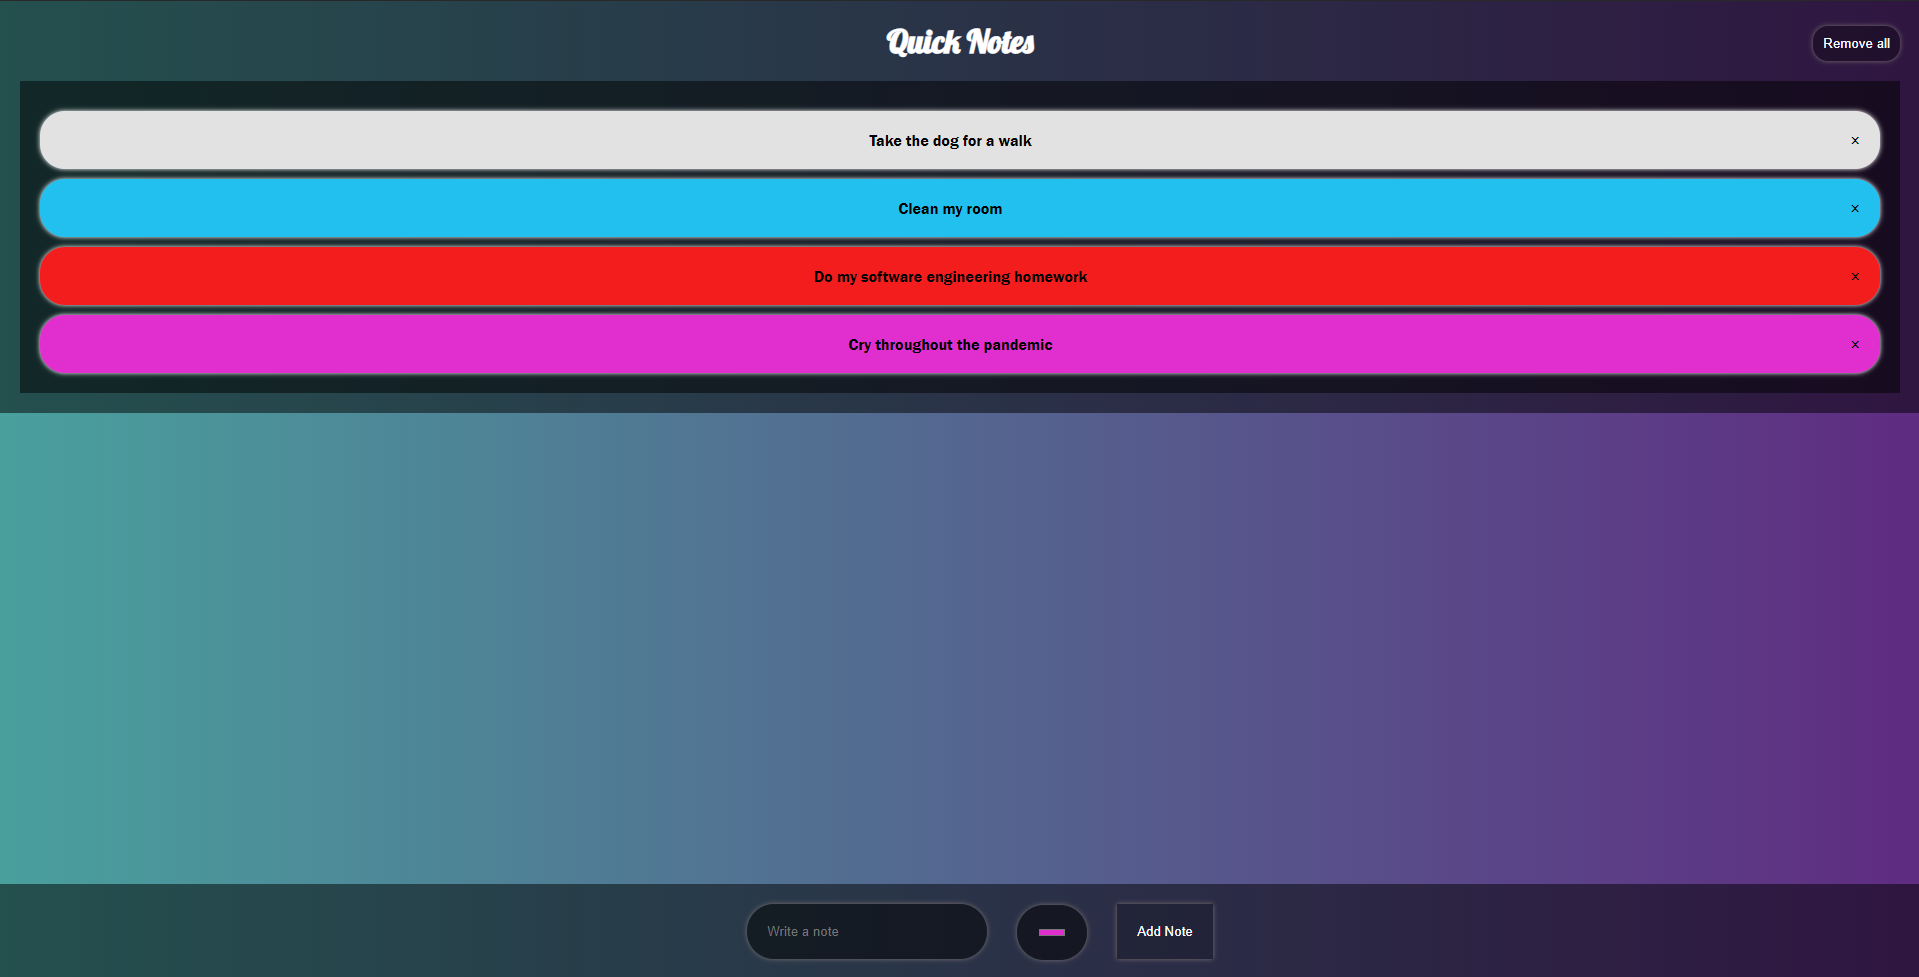
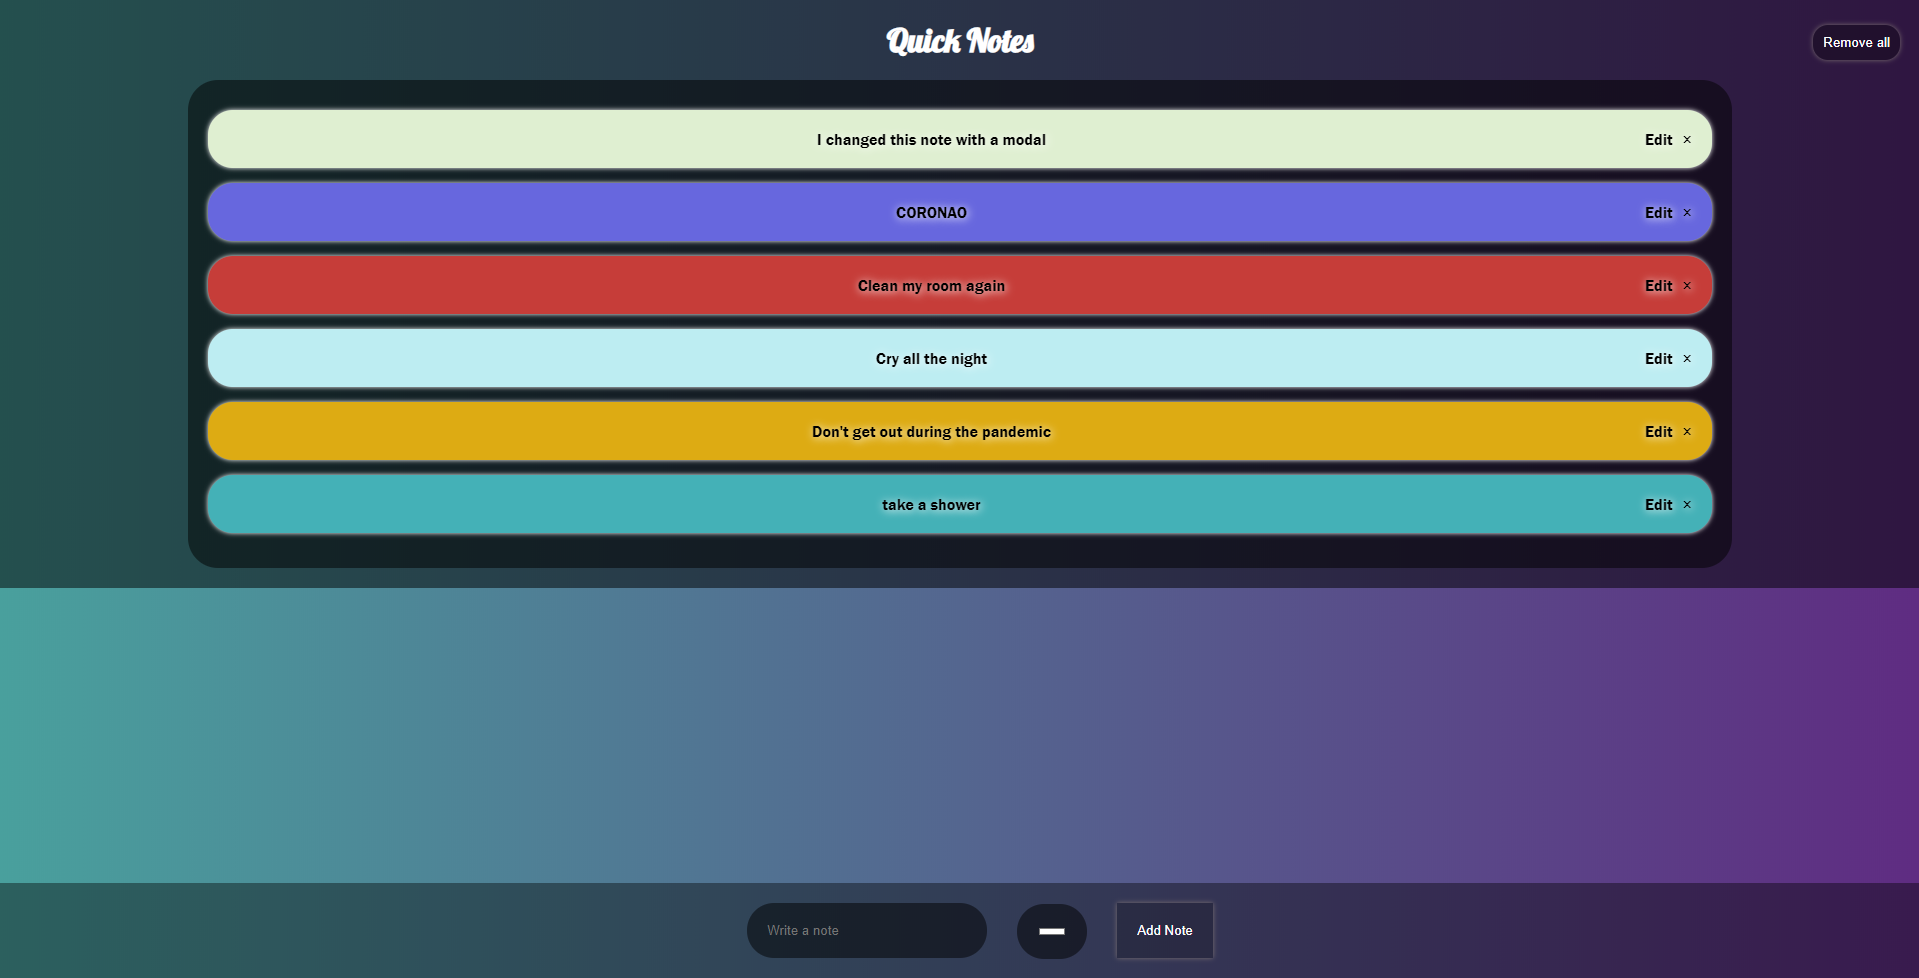
Edit the background color of your notes

diff --git a/src/Note/Note.jsx b/src/Note/Note.jsx
@@ -31,12 +31,14 @@ class Note extends Component {
         });
     }
 
-    updateNoteContent(noteId, newContent) {
+    updateNoteContent(noteId, newContent, color) {
         this.db.on('child_changed', snap => {
             this.noteContent = snap.val().noteContent;
+            this.noteColor = snap.val().noteColor;
         });
         this.db.child(noteId).update({
-            noteContent: newContent
+            noteContent: newContent,
+            noteColor: color
         });
         this.setModalState(false);
     }
@@ -55,24 +57,32 @@ class Note extends Component {
                     className="Modal"
                     isOpen={this.state.modalIsOpen}
                     onRequestClose={() => this.setModalState(false)}
-                    >
-                    <h2>Edit note</h2>
-                    <textarea
-                        id="txtEditInput"
-                        ref={input => { this.textInput = input; }}
-                        type="text">
-                        {this.noteContent}
-                    </textarea>
+                >
+                    <h1>Edit note</h1>
+                    <div>
+                        <textarea
+                            id="txtEditInput"
+                            ref={input => { this.textInput = input; }}
+                            type="text">
+                            {this.noteContent}
+                        </textarea>
+                        <input
+                            defaultValue={this.noteColor}
+                            id="modalcolor"
+                            ref={colorInput => { this.colorInput = colorInput; }}
+                            type="color"
+                        />
+                    </div>
 
-                    <button 
+                    <button
                         className="modalbtn save"
-                        onClick={() => this.updateNoteContent(this.noteId, this.textInput.value)}>
-                            Close and Save
+                        onClick={() => this.updateNoteContent(this.noteId, this.textInput.value, this.colorInput.value)}>
+                        Close and Save
                     </button>
-                    <button 
+                    <button
                         className="modalbtn close"
                         onClick={() => this.setModalState(false)}>
-                            Close
+                        Close
                     </button>
 
                 </Modal>

diff --git a/src/Note/Note.css b/src/Note/Note.css
@@ -31,26 +31,36 @@ p{
     background: #5f2c82;
     background: -webkit-linear-gradient(to right, #49a09d, #5f2c82);
     background: linear-gradient(to right, #49a09d, #5f2c82);
-    position: relative;
-    margin: 50px;
+    margin: 50px ;
     padding: 100px;
     border-radius: 50px;
     outline: 0;
     box-shadow: 0px 0px 15px #000;
 }
 
-.Modal h2{
-    margin-top: -50px;
+.Modal h1{
+    margin-top: -80px;
+    margin-bottom: 20px;
+    color: #000;
+}
+
+#modalcolor{
+    margin-left: 10px;
+    height: 60px;
+    border: none;
+    border-radius: 5px;
+    background-color: transparent;
 }
 
 textarea{
-    margin-top: 20px;
     max-width: 600px;
     min-width: 600px;
     max-height: 500px;
     min-height: 50px;
     text-align: center;
-    font-family: Verdana, Geneva, Tahoma, sans-serif;
+    margin: auto;
+    padding: 5px;
+    font-family: 'Trebuchet MS', 'Lucida Sans Unicode', 'Lucida Grande', 'Lucida Sans', Arial, sans-serif;
 }
 
 .modalbtn{
@@ -79,4 +89,3 @@ textarea{
 .modalbtn.save:hover{
     background-color: rgb(165, 238, 18);
 }
-

diff --git a/src/NoteForm/NoteForm.jsx b/src/NoteForm/NoteForm.jsx
@@ -31,7 +31,7 @@ export default class NoteForm extends Component {
                 />
 
                 <input
-                    value="#ffffff"
+                    defaultValue="#ffffff"
                     id="color"
                     ref={colorInput => { this.colorInput = colorInput; }}
                     type="color"

diff --git a/src/App.css b/src/App.css
@@ -2,8 +2,9 @@ body {
     background: #5f2c82;
     background: -webkit-linear-gradient(to right, #49a09d, #5f2c82);
     background: linear-gradient(to right, #49a09d, #5f2c82);
-
+    color: #fff;
     text-align: center;
+    enable-background: accumulate;    
 }
 
 * {

diff --git a/README.md b/README.md
@@ -1,1 +1,4 @@
 ![github-large](https://github.com/urielexis64/reactnotes/blob/master/src/screenshots/Screenshot_1.png)
+
+###Modal to edit notes
+![github-large](https://github.com/urielexis64/reactnotes/blob/master/src/screenshots/Screenshot_2.png)
